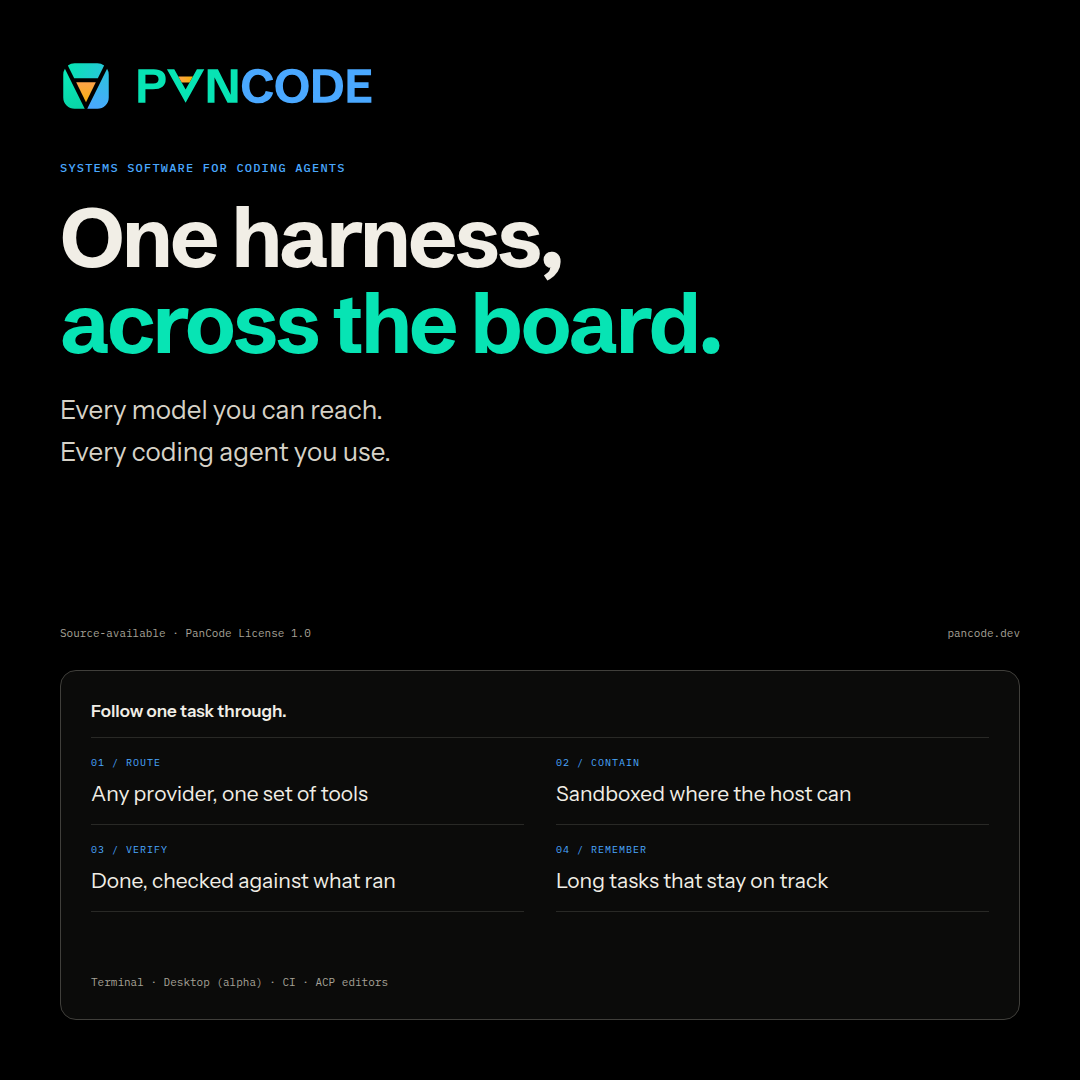
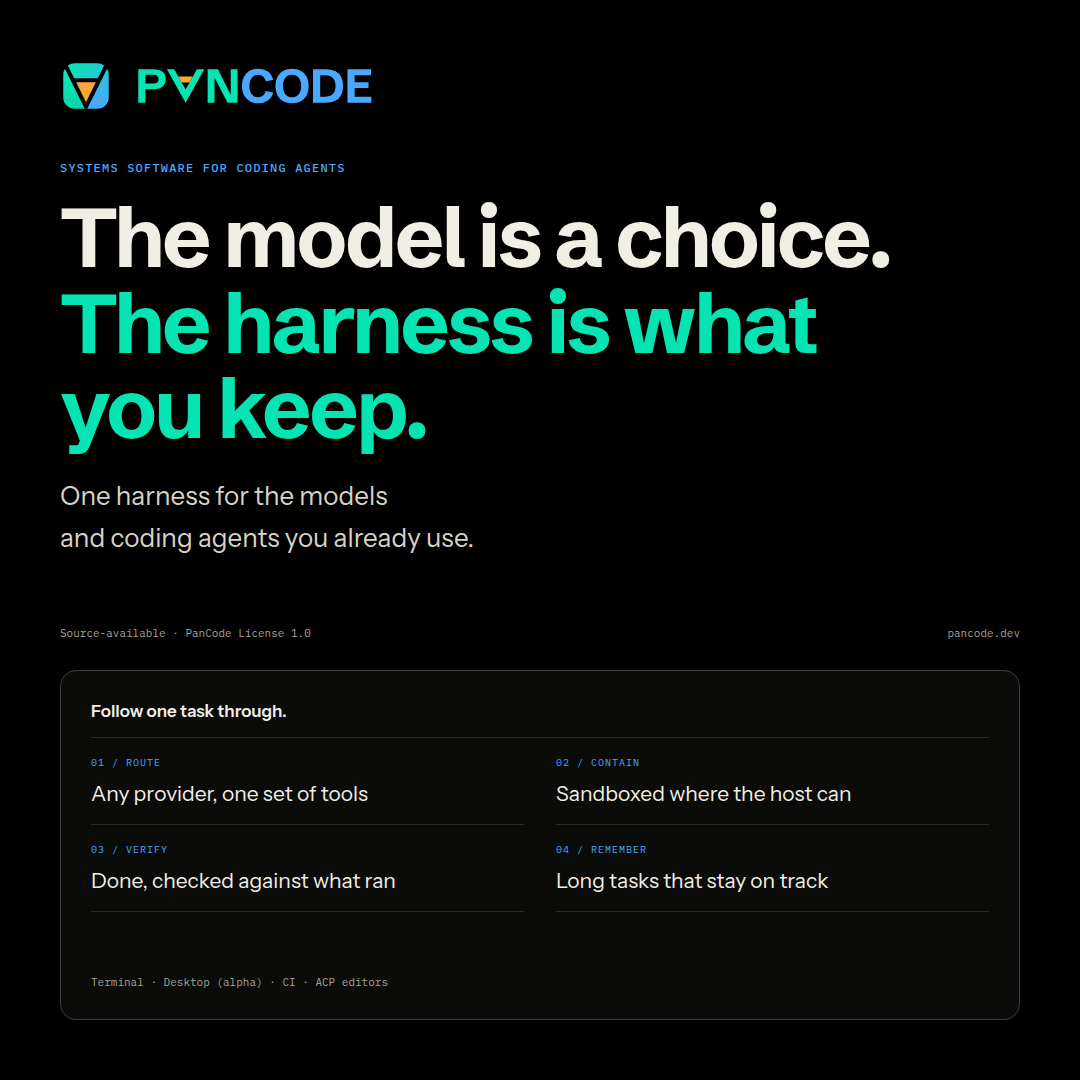
feat(site): cards and records carry the new headline and positioning

Changed region(s): [[0.0611, 0.1833, 0.825, 0.5194]]

diff --git a/site/cards/square-light.html b/site/cards/square-light.html
@@ -1,3 +1,3 @@
 <!doctype html>
 <html lang="en" data-theme="light"><head><meta charset="utf-8"><meta name="robots" content="noindex"><title>PanCode social preview</title><link rel="stylesheet" href="../css/cards.css"></head>
-<body class="square"><main><div class="brand"><img class="mark" src="../../assets/brand/pancode-mark-light.svg" width="52" height="52" alt=""><img class="name" src="../../assets/brand/pancode-display-light.svg" width="252" height="46" alt="PanCode"></div><p class="kicker">SYSTEMS SOFTWARE FOR CODING AGENTS</p><h1>One harness,<br><em>across the board.</em></h1><p class="promise">Every model you can reach.<br>Every coding agent you use.</p><footer><span>Source-available · PanCode License 1.0</span><span>pancode.dev</span></footer></main><aside aria-label="What PanCode does"><header>Follow one task through.</header><ol><li><small>01 / ROUTE</small>Any provider, one set of tools</li><li><small>02 / CONTAIN</small>Sandboxed where the host can</li><li><small>03 / VERIFY</small>Done, checked against what ran</li><li><small>04 / REMEMBER</small>Long tasks that stay on track</li></ol><p>Terminal · Desktop (alpha) · CI · ACP editors</p></aside></body></html>
+<body class="square"><main><div class="brand"><img class="mark" src="../../assets/brand/pancode-mark-light.svg" width="52" height="52" alt=""><img class="name" src="../../assets/brand/pancode-display-light.svg" width="252" height="46" alt="PanCode"></div><p class="kicker">SYSTEMS SOFTWARE FOR CODING AGENTS</p><h1>The model is a choice.<br><em>The harness is what you keep.</em></h1><p class="promise">One harness for the models<br>and coding agents you already use.</p><footer><span>Source-available · PanCode License 1.0</span><span>pancode.dev</span></footer></main><aside aria-label="What PanCode does"><header>Follow one task through.</header><ol><li><small>01 / ROUTE</small>Any provider, one set of tools</li><li><small>02 / CONTAIN</small>Sandboxed where the host can</li><li><small>03 / VERIFY</small>Done, checked against what ran</li><li><small>04 / REMEMBER</small>Long tasks that stay on track</li></ol><p>Terminal · Desktop (alpha) · CI · ACP editors</p></aside></body></html>

diff --git a/site/cards/link-light.html b/site/cards/link-light.html
@@ -1,3 +1,3 @@
 <!doctype html>
 <html lang="en" data-theme="light"><head><meta charset="utf-8"><meta name="robots" content="noindex"><title>PanCode social preview</title><link rel="stylesheet" href="../css/cards.css"></head>
-<body class="link"><main><div class="brand"><img class="mark" src="../../assets/brand/pancode-mark-light.svg" width="52" height="52" alt=""><img class="name" src="../../assets/brand/pancode-display-light.svg" width="252" height="46" alt="PanCode"></div><p class="kicker">SYSTEMS SOFTWARE FOR CODING AGENTS</p><h1>One harness,<br><em>across the board.</em></h1><p class="promise">Every model you can reach.<br>Every coding agent you use.</p><footer><span>Source-available · PanCode License 1.0</span><span>pancode.dev</span></footer></main><aside aria-label="What PanCode does"><header>Follow one task through.</header><ol><li><small>01 / ROUTE</small>Any provider, one set of tools</li><li><small>02 / CONTAIN</small>Sandboxed where the host can</li><li><small>03 / VERIFY</small>Done, checked against what ran</li><li><small>04 / REMEMBER</small>Long tasks that stay on track</li></ol><p>Terminal · Desktop (alpha) · CI · ACP editors</p></aside></body></html>
+<body class="link"><main><div class="brand"><img class="mark" src="../../assets/brand/pancode-mark-light.svg" width="52" height="52" alt=""><img class="name" src="../../assets/brand/pancode-display-light.svg" width="252" height="46" alt="PanCode"></div><p class="kicker">SYSTEMS SOFTWARE FOR CODING AGENTS</p><h1>The model is a choice.<br><em>The harness is what you keep.</em></h1><p class="promise">One harness for the models<br>and coding agents you already use.</p><footer><span>Source-available · PanCode License 1.0</span><span>pancode.dev</span></footer></main><aside aria-label="What PanCode does"><header>What the harness adds.</header><ol><li><small>01 / ROUTE</small>Any provider, one set of tools</li><li><small>02 / VERIFY</small>Done, checked against what ran</li><li><small>03 / CONTAIN</small>Sandboxed where the host can</li><li><small>04 / REMEMBER</small>Long tasks that stay on track</li></ol><p>Terminal · Desktop (alpha) · CI · ACP editors</p></aside></body></html>

diff --git a/site/cards/square.html b/site/cards/square.html
@@ -1,3 +1,3 @@
 <!doctype html>
 <html lang="en" data-theme="dark"><head><meta charset="utf-8"><meta name="robots" content="noindex"><title>PanCode social preview</title><link rel="stylesheet" href="../css/cards.css"></head>
-<body class="square"><main><div class="brand"><img class="mark" src="../../assets/brand/pancode-mark.svg" width="52" height="52" alt=""><img class="name" src="../../assets/brand/pancode-display.svg" width="252" height="46" alt="PanCode"></div><p class="kicker">SYSTEMS SOFTWARE FOR CODING AGENTS</p><h1>One harness,<br><em>across the board.</em></h1><p class="promise">Every model you can reach.<br>Every coding agent you use.</p><footer><span>Source-available · PanCode License 1.0</span><span>pancode.dev</span></footer></main><aside aria-label="What PanCode does"><header>Follow one task through.</header><ol><li><small>01 / ROUTE</small>Any provider, one set of tools</li><li><small>02 / CONTAIN</small>Sandboxed where the host can</li><li><small>03 / VERIFY</small>Done, checked against what ran</li><li><small>04 / REMEMBER</small>Long tasks that stay on track</li></ol><p>Terminal · Desktop (alpha) · CI · ACP editors</p></aside></body></html>
+<body class="square"><main><div class="brand"><img class="mark" src="../../assets/brand/pancode-mark.svg" width="52" height="52" alt=""><img class="name" src="../../assets/brand/pancode-display.svg" width="252" height="46" alt="PanCode"></div><p class="kicker">SYSTEMS SOFTWARE FOR CODING AGENTS</p><h1>The model is a choice.<br><em>The harness is what you keep.</em></h1><p class="promise">One harness for the models<br>and coding agents you already use.</p><footer><span>Source-available · PanCode License 1.0</span><span>pancode.dev</span></footer></main><aside aria-label="What PanCode does"><header>Follow one task through.</header><ol><li><small>01 / ROUTE</small>Any provider, one set of tools</li><li><small>02 / CONTAIN</small>Sandboxed where the host can</li><li><small>03 / VERIFY</small>Done, checked against what ran</li><li><small>04 / REMEMBER</small>Long tasks that stay on track</li></ol><p>Terminal · Desktop (alpha) · CI · ACP editors</p></aside></body></html>

diff --git a/site/cards/link.html b/site/cards/link.html
@@ -1,3 +1,3 @@
 <!doctype html>
 <html lang="en" data-theme="dark"><head><meta charset="utf-8"><meta name="robots" content="noindex"><title>PanCode social preview</title><link rel="stylesheet" href="../css/cards.css"></head>
-<body class="link"><main><div class="brand"><img class="mark" src="../../assets/brand/pancode-mark.svg" width="52" height="52" alt=""><img class="name" src="../../assets/brand/pancode-display.svg" width="252" height="46" alt="PanCode"></div><p class="kicker">SYSTEMS SOFTWARE FOR CODING AGENTS</p><h1>One harness,<br><em>across the board.</em></h1><p class="promise">Every model you can reach.<br>Every coding agent you use.</p><footer><span>Source-available · PanCode License 1.0</span><span>pancode.dev</span></footer></main><aside aria-label="What PanCode does"><header>Follow one task through.</header><ol><li><small>01 / ROUTE</small>Any provider, one set of tools</li><li><small>02 / CONTAIN</small>Sandboxed where the host can</li><li><small>03 / VERIFY</small>Done, checked against what ran</li><li><small>04 / REMEMBER</small>Long tasks that stay on track</li></ol><p>Terminal · Desktop (alpha) · CI · ACP editors</p></aside></body></html>
+<body class="link"><main><div class="brand"><img class="mark" src="../../assets/brand/pancode-mark.svg" width="52" height="52" alt=""><img class="name" src="../../assets/brand/pancode-display.svg" width="252" height="46" alt="PanCode"></div><p class="kicker">SYSTEMS SOFTWARE FOR CODING AGENTS</p><h1>The model is a choice.<br><em>The harness is what you keep.</em></h1><p class="promise">One harness for the models<br>and coding agents you already use.</p><footer><span>Source-available · PanCode License 1.0</span><span>pancode.dev</span></footer></main><aside aria-label="What PanCode does"><header>What the harness adds.</header><ol><li><small>01 / ROUTE</small>Any provider, one set of tools</li><li><small>02 / VERIFY</small>Done, checked against what ran</li><li><small>03 / CONTAIN</small>Sandboxed where the host can</li><li><small>04 / REMEMBER</small>Long tasks that stay on track</li></ol><p>Terminal · Desktop (alpha) · CI · ACP editors</p></aside></body></html>

diff --git a/site/DESIGN.md b/site/DESIGN.md
@@ -134,7 +134,7 @@ The site is static HTML and CSS with small progressive enhancements. Use CSS lay
 
 ## Overview page and media
 
-The overview shows the product first. Its hero sets the headline in the display face with the second line in the brand green, one sentence, one install command on a code surface, and a terminal window of real recorded output under the PAN field: routes from the mark to named models and agents. The field is the one place the hero glows. Reach, Flow, Product and Start follow, each with one job and one next step.
+The overview shows the product first. Its hero sets the headline in the display face with the second line in the brand green, one sentence, one install command on a code surface, and a terminal window of real recorded output under the PAN field: routes from the mark to named models and agents. The field is the one place the hero glows. A premise, Route, the harness (Verify, Contain, Delegate, Remember), Product and Start follow, each with one job and one next step. The hero headline is “The model is a choice. The harness is what you keep.”; the positioning line, used in the footer, metadata and cards, is “One harness for the models and coding agents you already use.”
 
 Generated media may replace a still mark in the hero, a chapter margin or the closing section. It must use the sanctioned palette on a true-black ground, contain no rendered text, logos or other brands, and ship as a silent, compressed derivative with a poster and intrinsic dimensions. A film plays once, never loops unattended, loads only when visible, pauses offscreen and in hidden tabs, and is replaced by its poster under reduced motion and on data-saving connections. No rectangular backdrop: the film's black sits on the page's black. The artwork of the retired identity must not appear anywhere.
 
